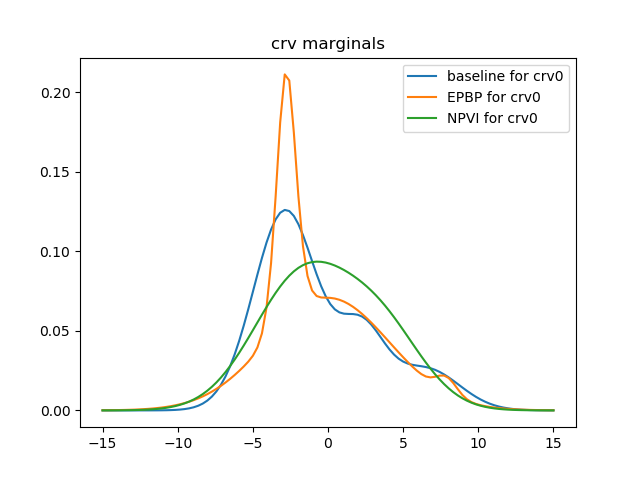
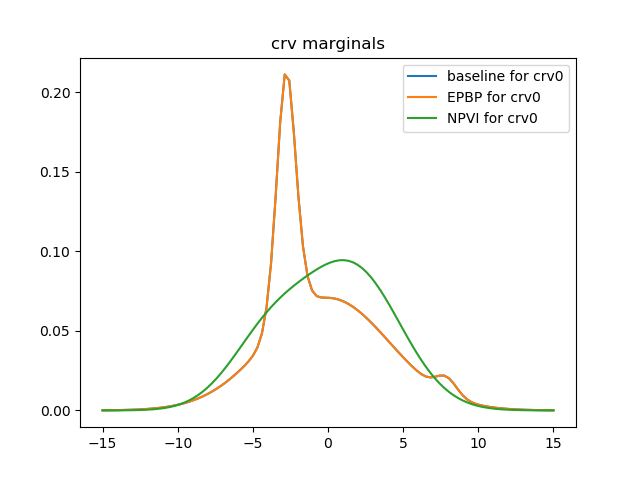
got too excited with the toy example; same trick (w_d = 1e-8) doesn't work in hmln_experiment, EPBP still perfect

diff --git a/osi/hmln_experiment.py b/osi/hmln_experiment.py
@@ -47,8 +47,9 @@ atom_C = Atom(domain_bool, logical_variables=(lv_x, lv_s), name='C')
 atom_C2 = Atom(domain_bool, logical_variables=(lv_y, lv_s2), name='C')
 atom_D = Atom(domain_bool, logical_variables=(lv_x, lv_y), name='D')
 
+w_d = 1e-8
 f1 = ParamF(  # disc
-    MLNPotential(lambda x: imp_op(x[0] * x[1], x[2]), w=0.1),
+    MLNPotential(lambda x: imp_op(x[0] * x[1], x[2]), w=w_d),
     nb=(atom_D, atom_C, atom_C2),
     constrain=lambda sub: ((sub[lv_s] == 'T1' and sub[lv_s2] == 'T1') or (sub[lv_s] == 'T1' and sub[lv_s2] == 'T2'))
                           and (sub[lv_x] != sub[lv_y])
@@ -105,7 +106,6 @@ for test_num in range(num_tests):
     # B_vals = [-14, 2, 20]
     for i, s in enumerate(S):
         data[('B', s)] = B_vals[i]
-
     for x in X:
         for y in X:
             if x != y:
@@ -163,8 +163,8 @@ for test_num in range(num_tests):
 
     all_margs = {algo_name: [None] * len(query_rvs) for algo_name in algo_names}  # for plotting convenience
 
-    # baseline = 'exact'
-    baseline = 'gibbs'
+    baseline = 'exact'
+    # baseline = 'gibbs'
     for algo_name in algo_names:
         print('####')
         print('test_num', test_num)
